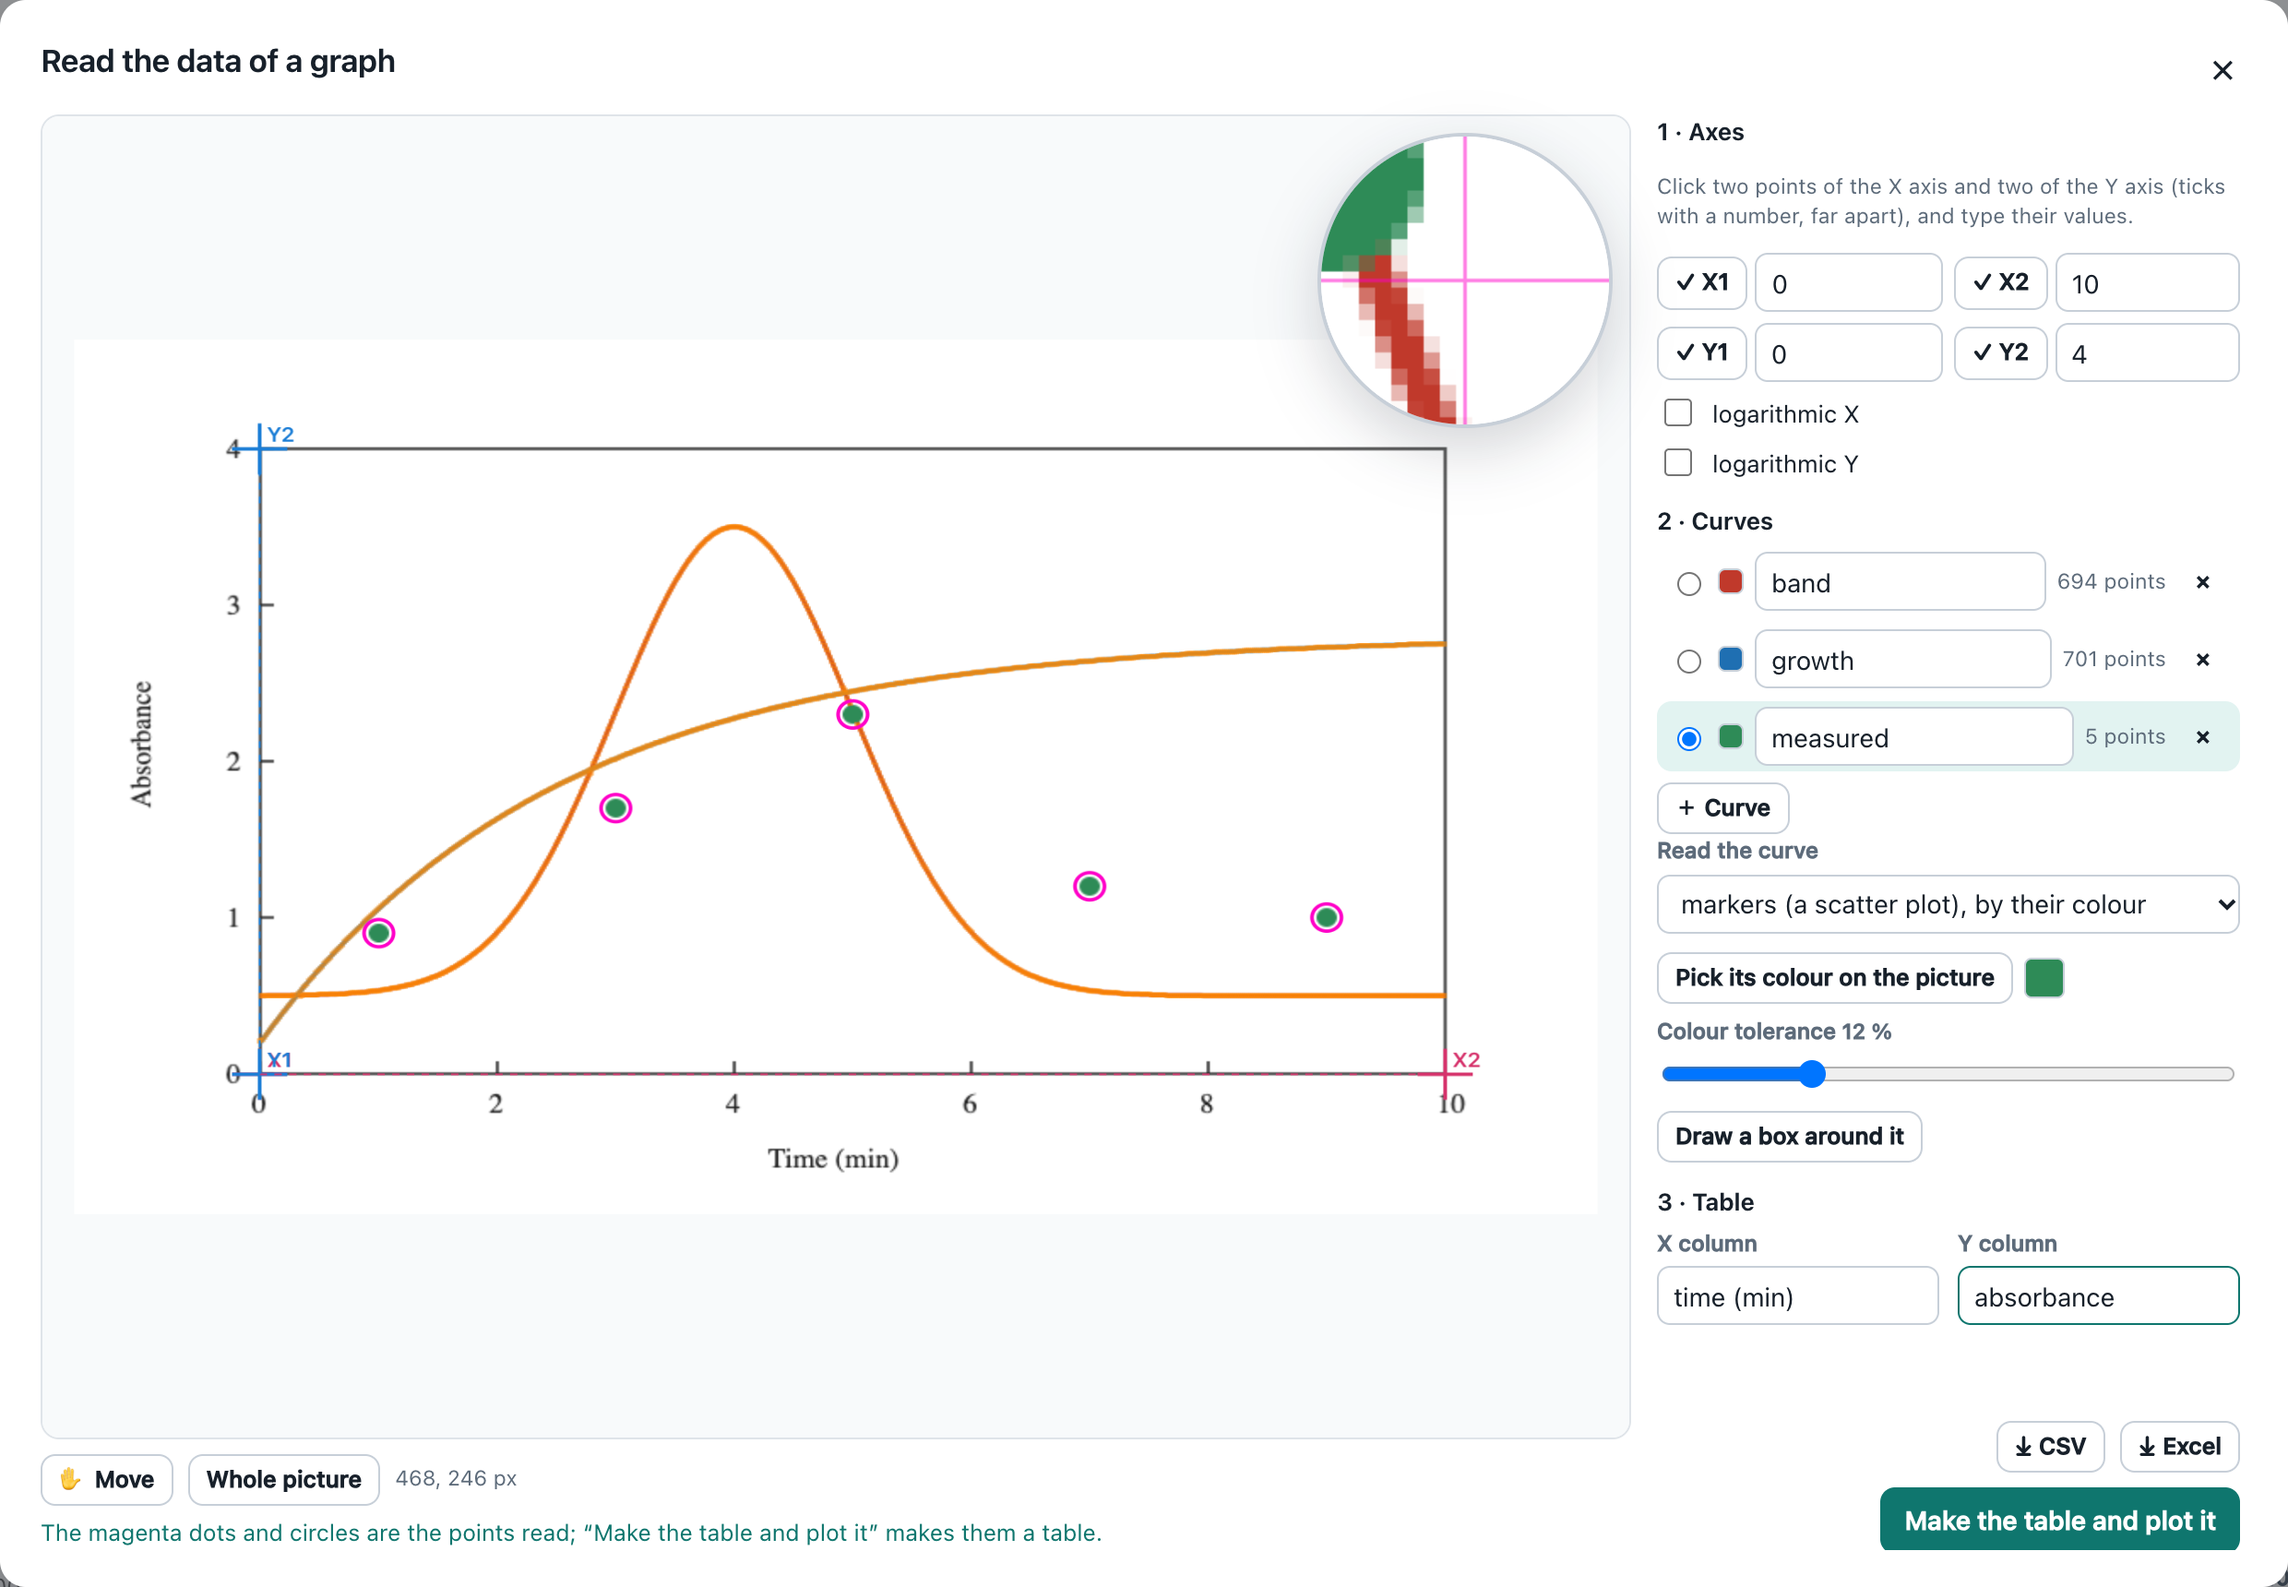
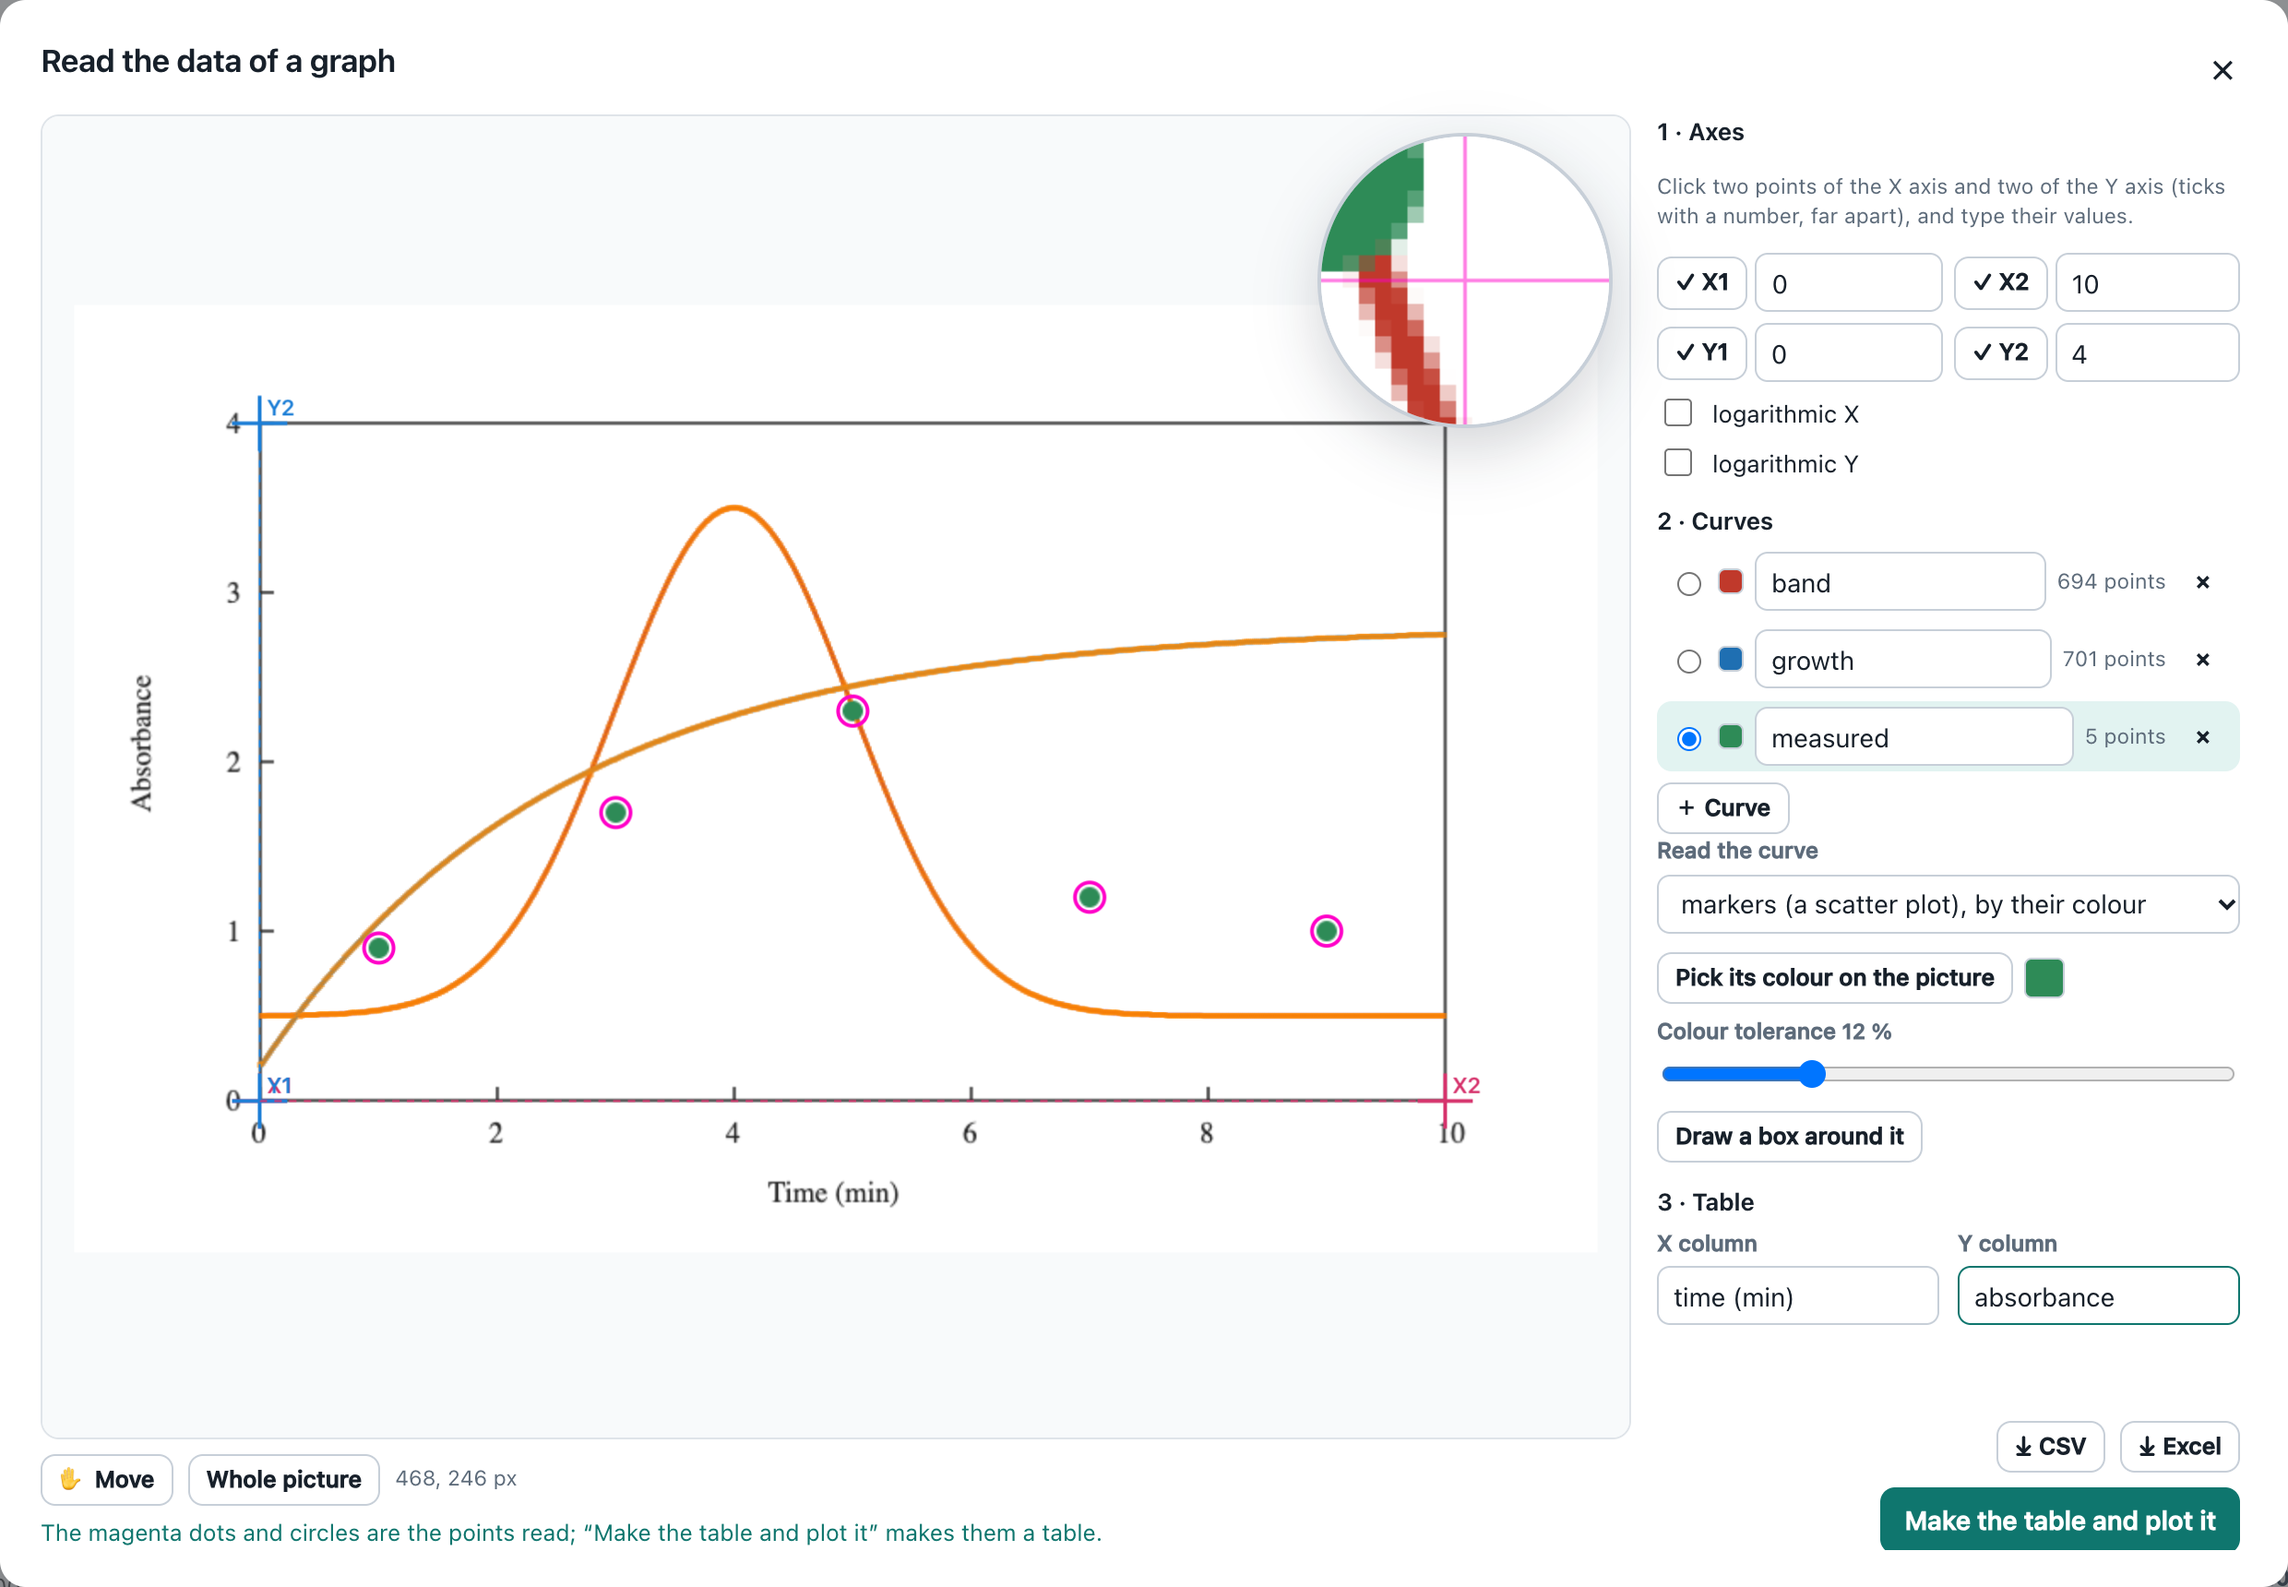
Digitiser: a click lands on the pixel under the pointer
The canvas bitmap was sized from its container, which also holds the buttons and the hint below it, while
the page laid the canvas out shorter: the picture was drawn stretched and a click was converted with the
horizontal ratio on both axes, so points landed above the pointer, the more the lower the click (X2 on the
bottom axis jumped up). The bitmap now takes the size the canvas is shown at (kept in step by a
ResizeObserver, the view unchanged), and each axis has its own ratio.

The UI test now checks that the bitmap has the shape it is shown at and that every axis point is placed
within 1.5 px of where it was clicked, zoomed on with the wheel; it fails on the previous code. Manual
picture redrawn.

diff --git a/web/digitize.js b/web/digitize.js
@@ -76,14 +76,21 @@ window.Digitizer = (() => {
   }
 
   // ------------------------------------------------------------ the picture on screen
+  // The canvas keeps the size the page lays it out at, in device pixels: a bitmap of another shape would be drawn
+  // stretched, and the points clicked would land elsewhere than the pointer (higher, the lower the click).
+  function sizeCanvas() {
+    const c = canvas();
+    const r = c.getBoundingClientRect();
+    const ratio = window.devicePixelRatio || 1;
+    const w = Math.max(1, Math.round(r.width * ratio)), h = Math.max(1, Math.round(r.height * ratio));
+    if (c.width === w && c.height === h) return false;
+    c.width = w;
+    c.height = h;
+    return true;
+  }
   function fit() {
     const c = canvas();
-    const box = c.parentElement.getBoundingClientRect();
-    const ratio = window.devicePixelRatio || 1;
-    c.width = Math.max(200, Math.round(box.width * ratio));
-    c.height = Math.max(200, Math.round(box.height * ratio));
-    c.style.width = `${box.width}px`;
-    c.style.height = `${box.height}px`;
+    sizeCanvas();
     const s = Math.min(c.width / D.w, c.height / D.h) * 0.96;
     D.view = { scale: s, ox: (c.width - D.w * s) / 2, oy: (c.height - D.h * s) / 2 };
     draw();
@@ -92,9 +99,8 @@ window.Digitizer = (() => {
   const toPx = (cx, cy) => [(cx - D.view.ox) / D.view.scale - 0.5, (cy - D.view.oy) / D.view.scale - 0.5];
   const toCanvas = (u, v) => [D.view.ox + (u + 0.5) * D.view.scale, D.view.oy + (v + 0.5) * D.view.scale];
   function eventPx(ev) {
-    const r = canvas().getBoundingClientRect();
-    const ratio = canvas().width / r.width;
-    const cx = (ev.clientX - r.left) * ratio, cy = (ev.clientY - r.top) * ratio;
+    const c = canvas(), r = c.getBoundingClientRect();
+    const cx = (ev.clientX - r.left) * c.width / r.width, cy = (ev.clientY - r.top) * c.height / r.height;
     return { cx, cy, px: toPx(cx, cy) };
   }
 
@@ -454,7 +460,8 @@ window.Digitizer = (() => {
     c.addEventListener('contextmenu', ev => ev.preventDefault());
     window.addEventListener('keydown', ev => { if (dlg().open && ev.code === 'Space' && ev.target.tagName !== 'INPUT') { D.space = true; ev.preventDefault(); } });
     window.addEventListener('keyup', ev => { if (ev.code === 'Space') D.space = false; });
-    window.addEventListener('resize', () => { if (dlg().open) fit(); });
+    // The dialog laid out anew (a window resized, the side panel growing): the same view, on a bitmap of the new size.
+    new ResizeObserver(() => { if (dlg().open && D.img && sizeCanvas()) draw(); }).observe(c);
     $('#digXLog').onchange = () => { D.axes.xlog = $('#digXLog').checked; schedulePreview(); };
     $('#digYLog').onchange = () => { D.axes.ylog = $('#digYLog').checked; schedulePreview(); };
     $('#digAddCurve').onclick = () => { D.series.push(newSeries(D.series.length)); D.cur = D.series.length - 1; D.tool = 'colour'; renderSide(); draw(); };

diff --git a/tests/test_ui.py b/tests/test_ui.py
@@ -340,11 +340,22 @@ class TestPage(unittest.TestCase):
         self.page.wait_for_function('() => document.querySelector("#digitizeDialog").open && Digitizer.state.img')
         self.page.wait_for_timeout(300)
         at = """([u, v]) => { const D = Digitizer.state, cv = document.querySelector('#digCanvas'), r = cv.getBoundingClientRect(),
-            k = r.width / cv.width; return [r.left + (D.view.ox + (u + 0.5) * D.view.scale) * k, r.top + (D.view.oy + (v + 0.5) * D.view.scale) * k]; }"""
+            kx = r.width / cv.width, ky = r.height / cv.height;
+            return [r.left + (D.view.ox + (u + 0.5) * D.view.scale) * kx, r.top + (D.view.oy + (v + 0.5) * D.view.scale) * ky]; }"""
         click = lambda u, v: self.page.mouse.click(*self.page.evaluate(at, [u, v]))    # noqa: E731
+        # The bitmap of the canvas has the shape it is shown at (a stretched one put points above the pointer).
+        shape = self.state("(() => { const c = document.querySelector('#digCanvas'), r = c.getBoundingClientRect(); "
+                           "return [c.width / c.height, r.width / r.height]; })()")
+        self.assertAlmostEqual(shape[0], shape[1], delta=0.01)
         for key, (u, v), value in (('x0', (100, 420), '0'), ('x1', (700, 420), '10'), ('y0', (100, 420), '0'), ('y1', (100, 60), '4')):
             self.assertEqual(self.state('Digitizer.state.tool'), key)          # the next point to click, in order
+            self.page.click('#digFit')
+            self.page.mouse.move(*self.page.evaluate(at, [u, v]))
+            self.page.mouse.wheel(0, -300)                                     # zoomed on it, as one does for precision
+            self.page.wait_for_timeout(150)
             click(u, v)
+            placed = self.state(f'Digitizer.state.axes.{key[0]}[{key[1]}].px')
+            self.assertLess(abs(placed[0] - u) + abs(placed[1] - v), 1.5)        # where the pointer was
             self.page.fill(f'#digAxes [data-axis="{key}"] input', value)
         self.page.click('#digPickColour')
         click(340, 106)                                                        # on the red curve, at its top

diff --git a/tools/make_manual_images.py b/tools/make_manual_images.py
@@ -356,7 +356,8 @@ def _(ui):
     ui.pg.wait_for_function('() => document.querySelector("#digitizeDialog").open && Digitizer.state.img')
     ui.pg.wait_for_timeout(400)
     at = """([u, v]) => { const D = Digitizer.state, cv = document.querySelector('#digCanvas'), r = cv.getBoundingClientRect(),
-        k = r.width / cv.width; return [r.left + (D.view.ox + (u + 0.5) * D.view.scale) * k, r.top + (D.view.oy + (v + 0.5) * D.view.scale) * k]; }"""
+        kx = r.width / cv.width, ky = r.height / cv.height;
+            return [r.left + (D.view.ox + (u + 0.5) * D.view.scale) * kx, r.top + (D.view.oy + (v + 0.5) * D.view.scale) * ky]; }"""
     click = lambda u, v: ui.pg.mouse.click(*ui.pg.evaluate(at, [u, v]))     # noqa: E731
     for key, (u, v), value in (('x0', (110, 470), '0'), ('x1', (810, 470), '10'), ('y0', (110, 470), '0'), ('y1', (110, 70), '4')):
         click(u, v)

diff --git a/RELEASE_NOTES.md b/RELEASE_NOTES.md
@@ -15,7 +15,8 @@
   source (`{'digitize': {file_id, axes, series, xname, yname}}`, a new kind in `sources.py` and the project schema), so it
   is kept in projects and can be opened again to change how it was read (`piplotter/digitize.py`,
   `piplotter/service/digitize.py`, `web/digitize.js`; `/api/digitize/picture`, `/api/digitize/preview`, `/api/digitize`).
-  Accuracy is about a pixel (0.2 % of a 600-pixel axis in the tests).
+  Accuracy is about a pixel (0.2 % of a 600-pixel axis in the tests). The picture is drawn at the shape it is shown
+  at, so a click lands on the pixel under the pointer, zoomed or not, whatever the size of the window.
 - **Tables saved as files**: *⤓ CSV* and *⤓ Excel* in the bar of the Data table (and in the digitiser) save the whole
   table — CSV in UTF-8 with its mark, so spreadsheets read the accents, or `.xlsx` with openpyxl, installed when first
   needed; excluded rows are left out (`/api/table/export`).
@@ -45,7 +46,8 @@
   sull’immagine. *Crea la tabella e tracciala* aggiunge la tabella ai file caricati (una colonna `curve` per più curve) e
   la disegna; è un insieme di dati come gli altri, rifatto dalla sua sorgente (un nuovo tipo `digitize`), quindi resta
   nei progetti e si può riaprire per cambiare come è stata letta. Precisione: circa un pixel (0,2 % di un asse di 600
-  pixel nei test).
+  pixel nei test). L’immagine è disegnata con le proporzioni con cui è mostrata, quindi un clic cade sul pixel sotto il
+  puntatore, ingrandita o no, qualunque sia la dimensione della finestra.
 - **Tabelle salvate in file**: *⤓ CSV* e *⤓ Excel* nella barra della Tabella dati (e nel digitalizzatore) salvano
   l’intera tabella — CSV in UTF-8 con il suo marcatore, così i fogli di calcolo leggono gli accenti, o `.xlsx` con
   openpyxl, installato al primo uso; le righe escluse restano fuori.
